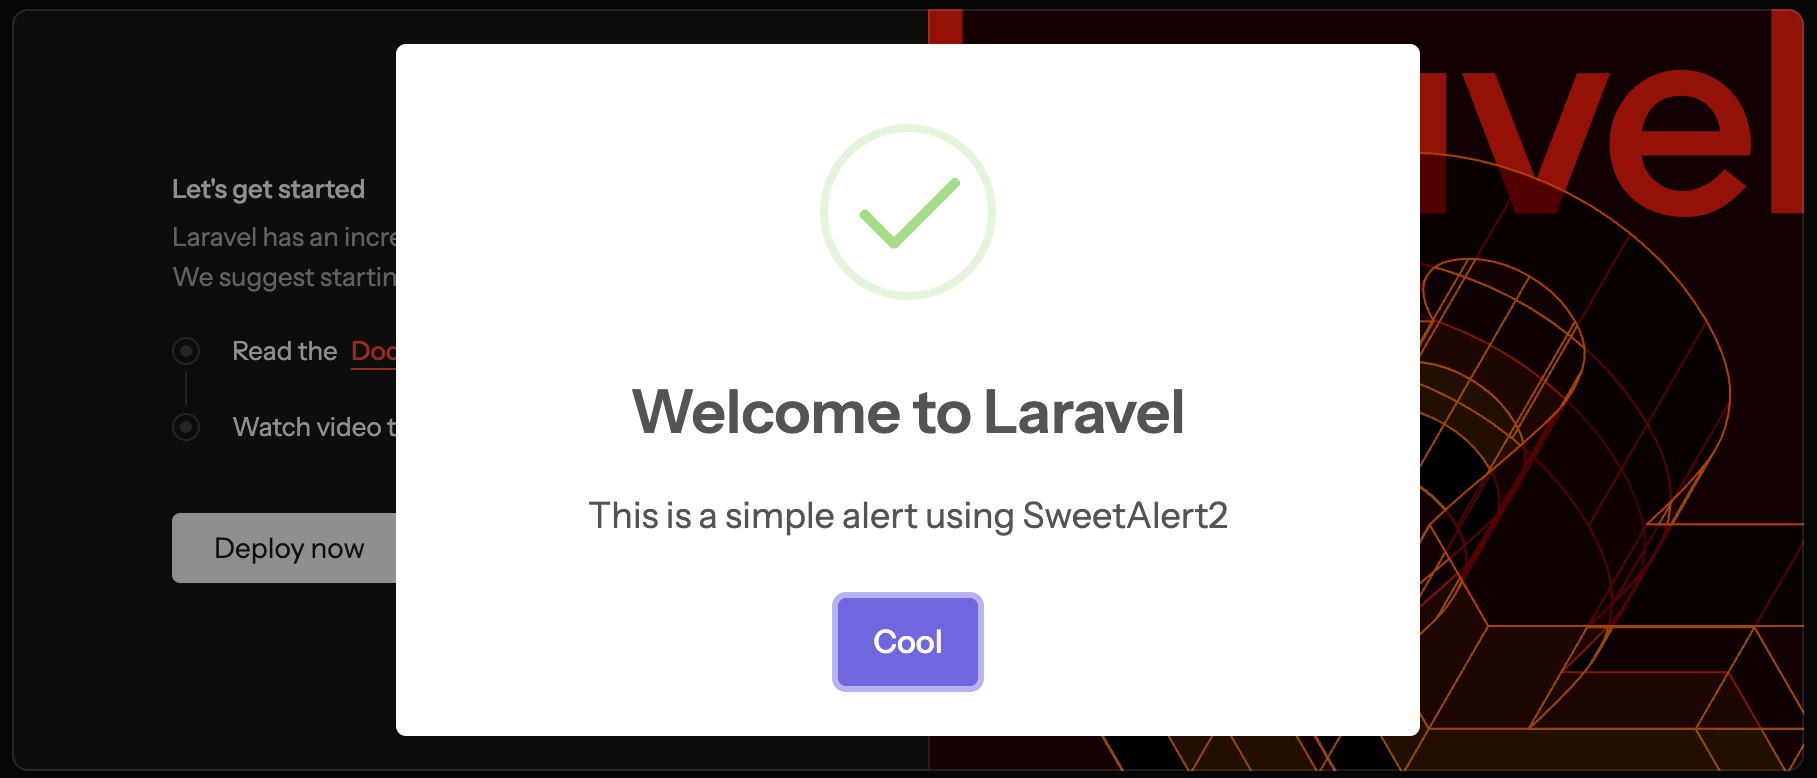
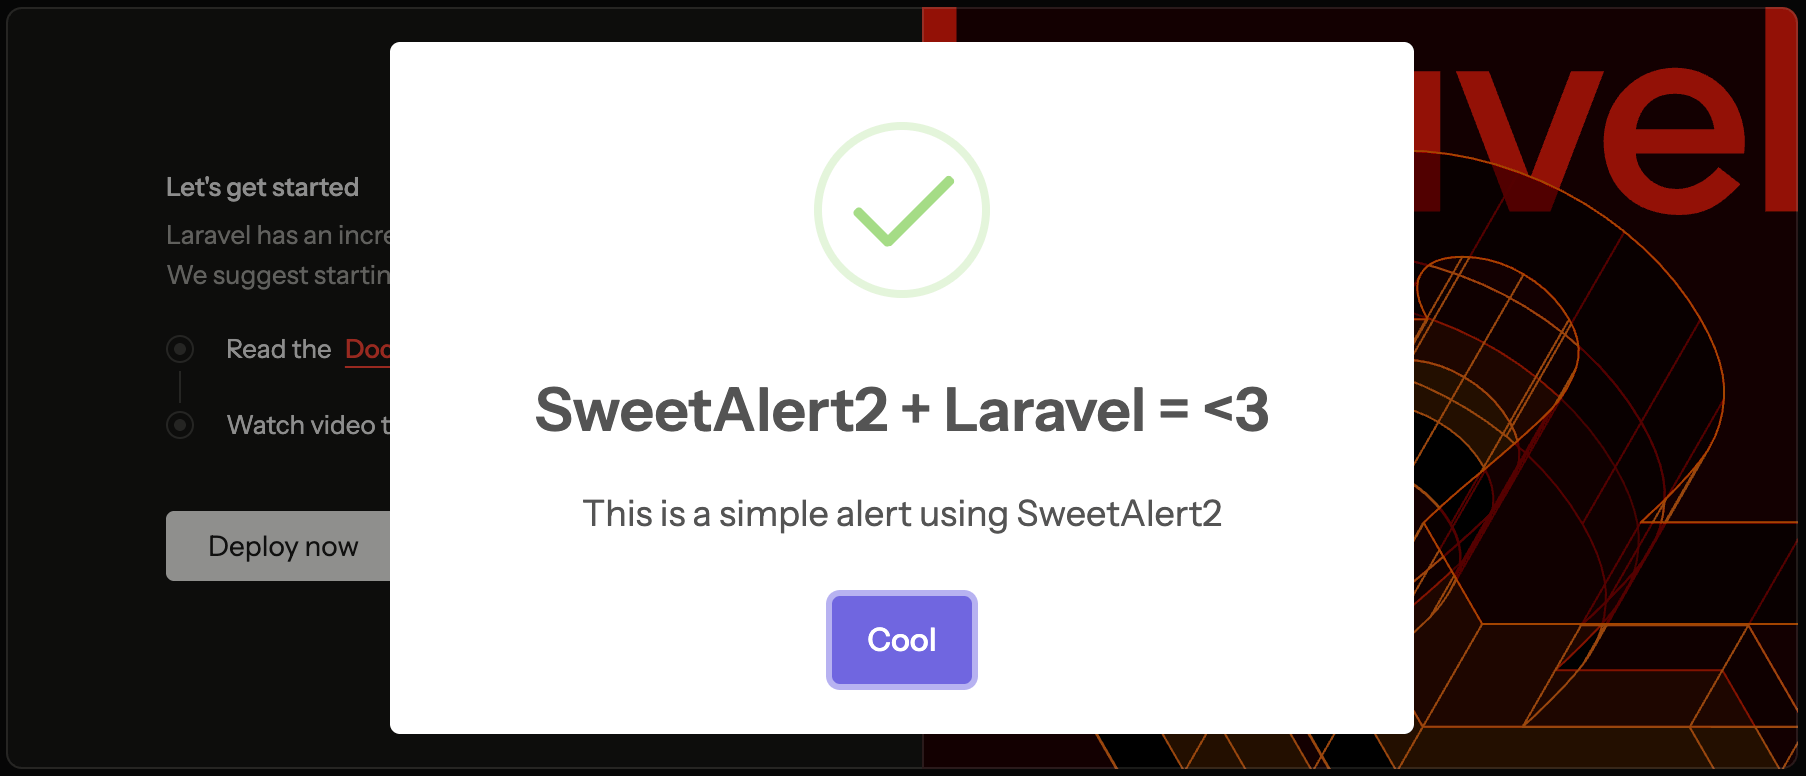
chore: upd readme

diff --git a/README.md b/README.md
@@ -22,6 +22,8 @@ Include the SweetAlert2 template in your layout file (usually `resources/views/l
 And the last step is to tell Laravel to show the actual alert:
 
 ```php
+use SweetAlert2\Laravel\Swal;
+
 Swal::fire([
     'title' => 'Laravel + SweetAlert2 = <3',
     'text' => 'This is a simple alert using SweetAlert2',
